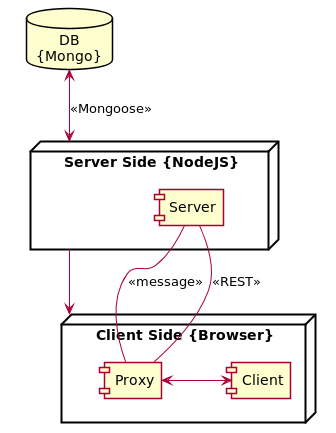
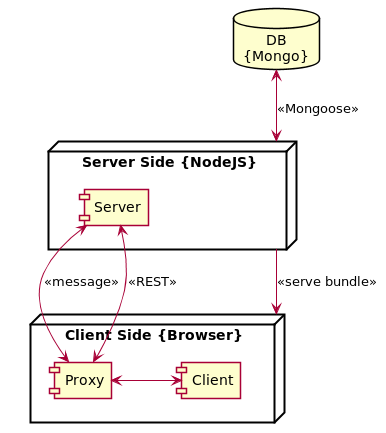
docs(deployment): add deployment view

diff --git a/docs/architecture/deployment-view.md b/docs/architecture/deployment-view.md
@@ -1,0 +1,9 @@
+# Pogled na razmeštaj aplikacije Grafaro
+
+U ovom dokumentu je prikazan razmeštaj aplikacije Grafaro.
+
+Glavni čvor razmeštaja čini server koji ostvaruje konekciju sa bazom. Prilikom ostvarivanja pristupa korisnika (odnosno korisničkog čvora), korisnik dobija bandlovanu (_bundled_) verziju klijentske komponente koja se izvršava u njegovom pregledaču.
+
+Pogled razmeštaja je dat na sledećem dijagramu:
+
+![Pogled razmeštaja](img/deployment-view.png)
